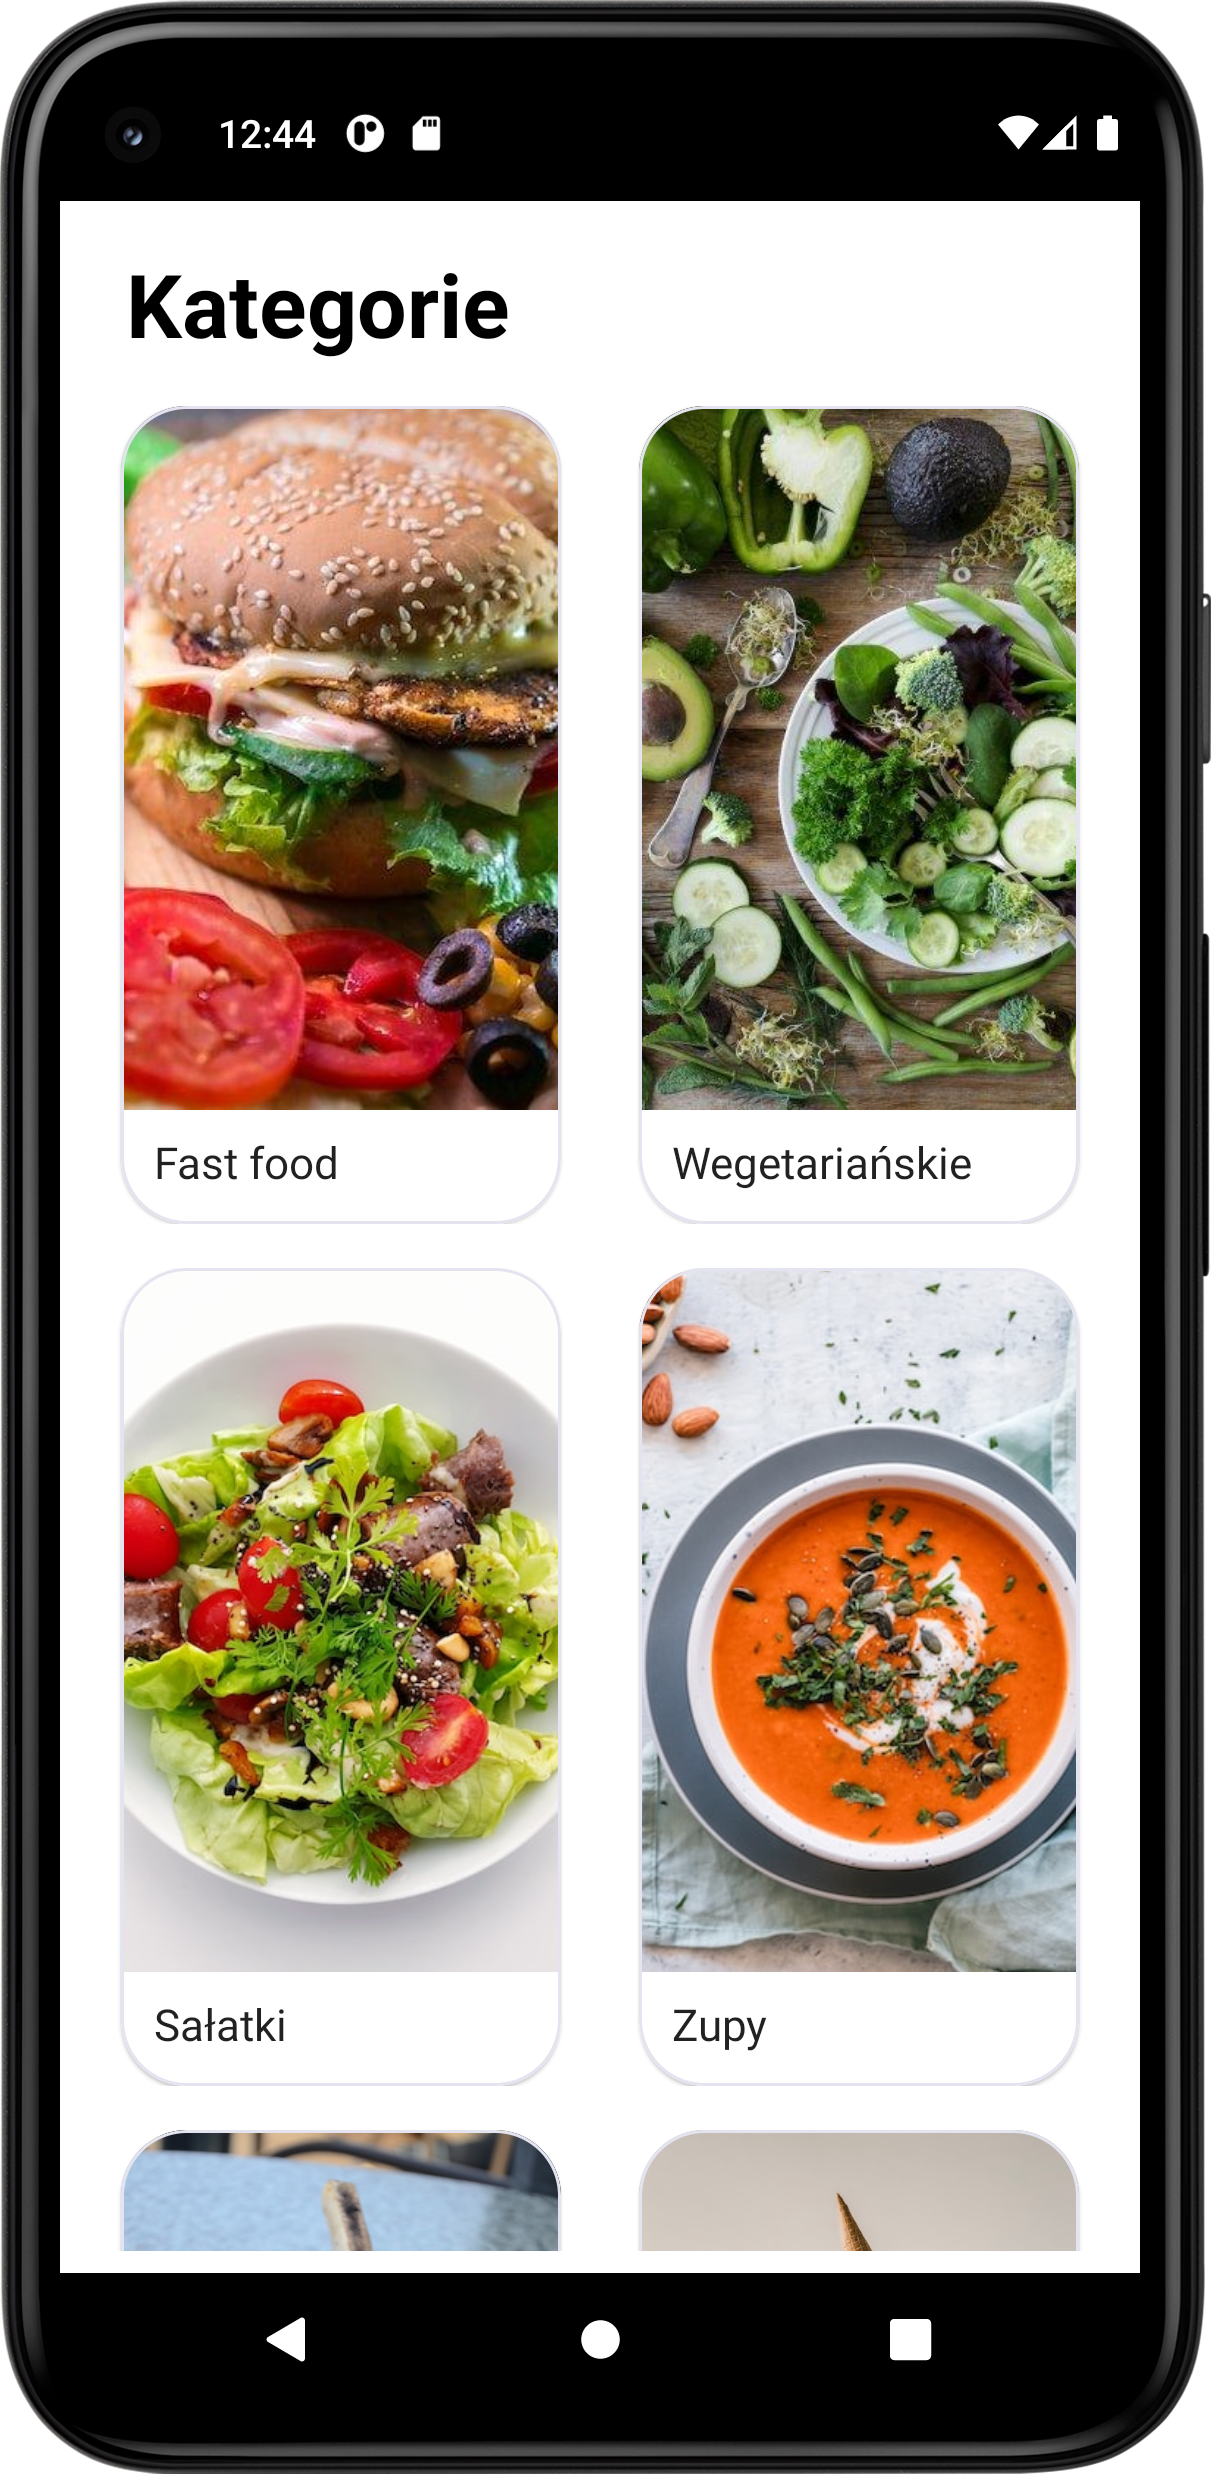
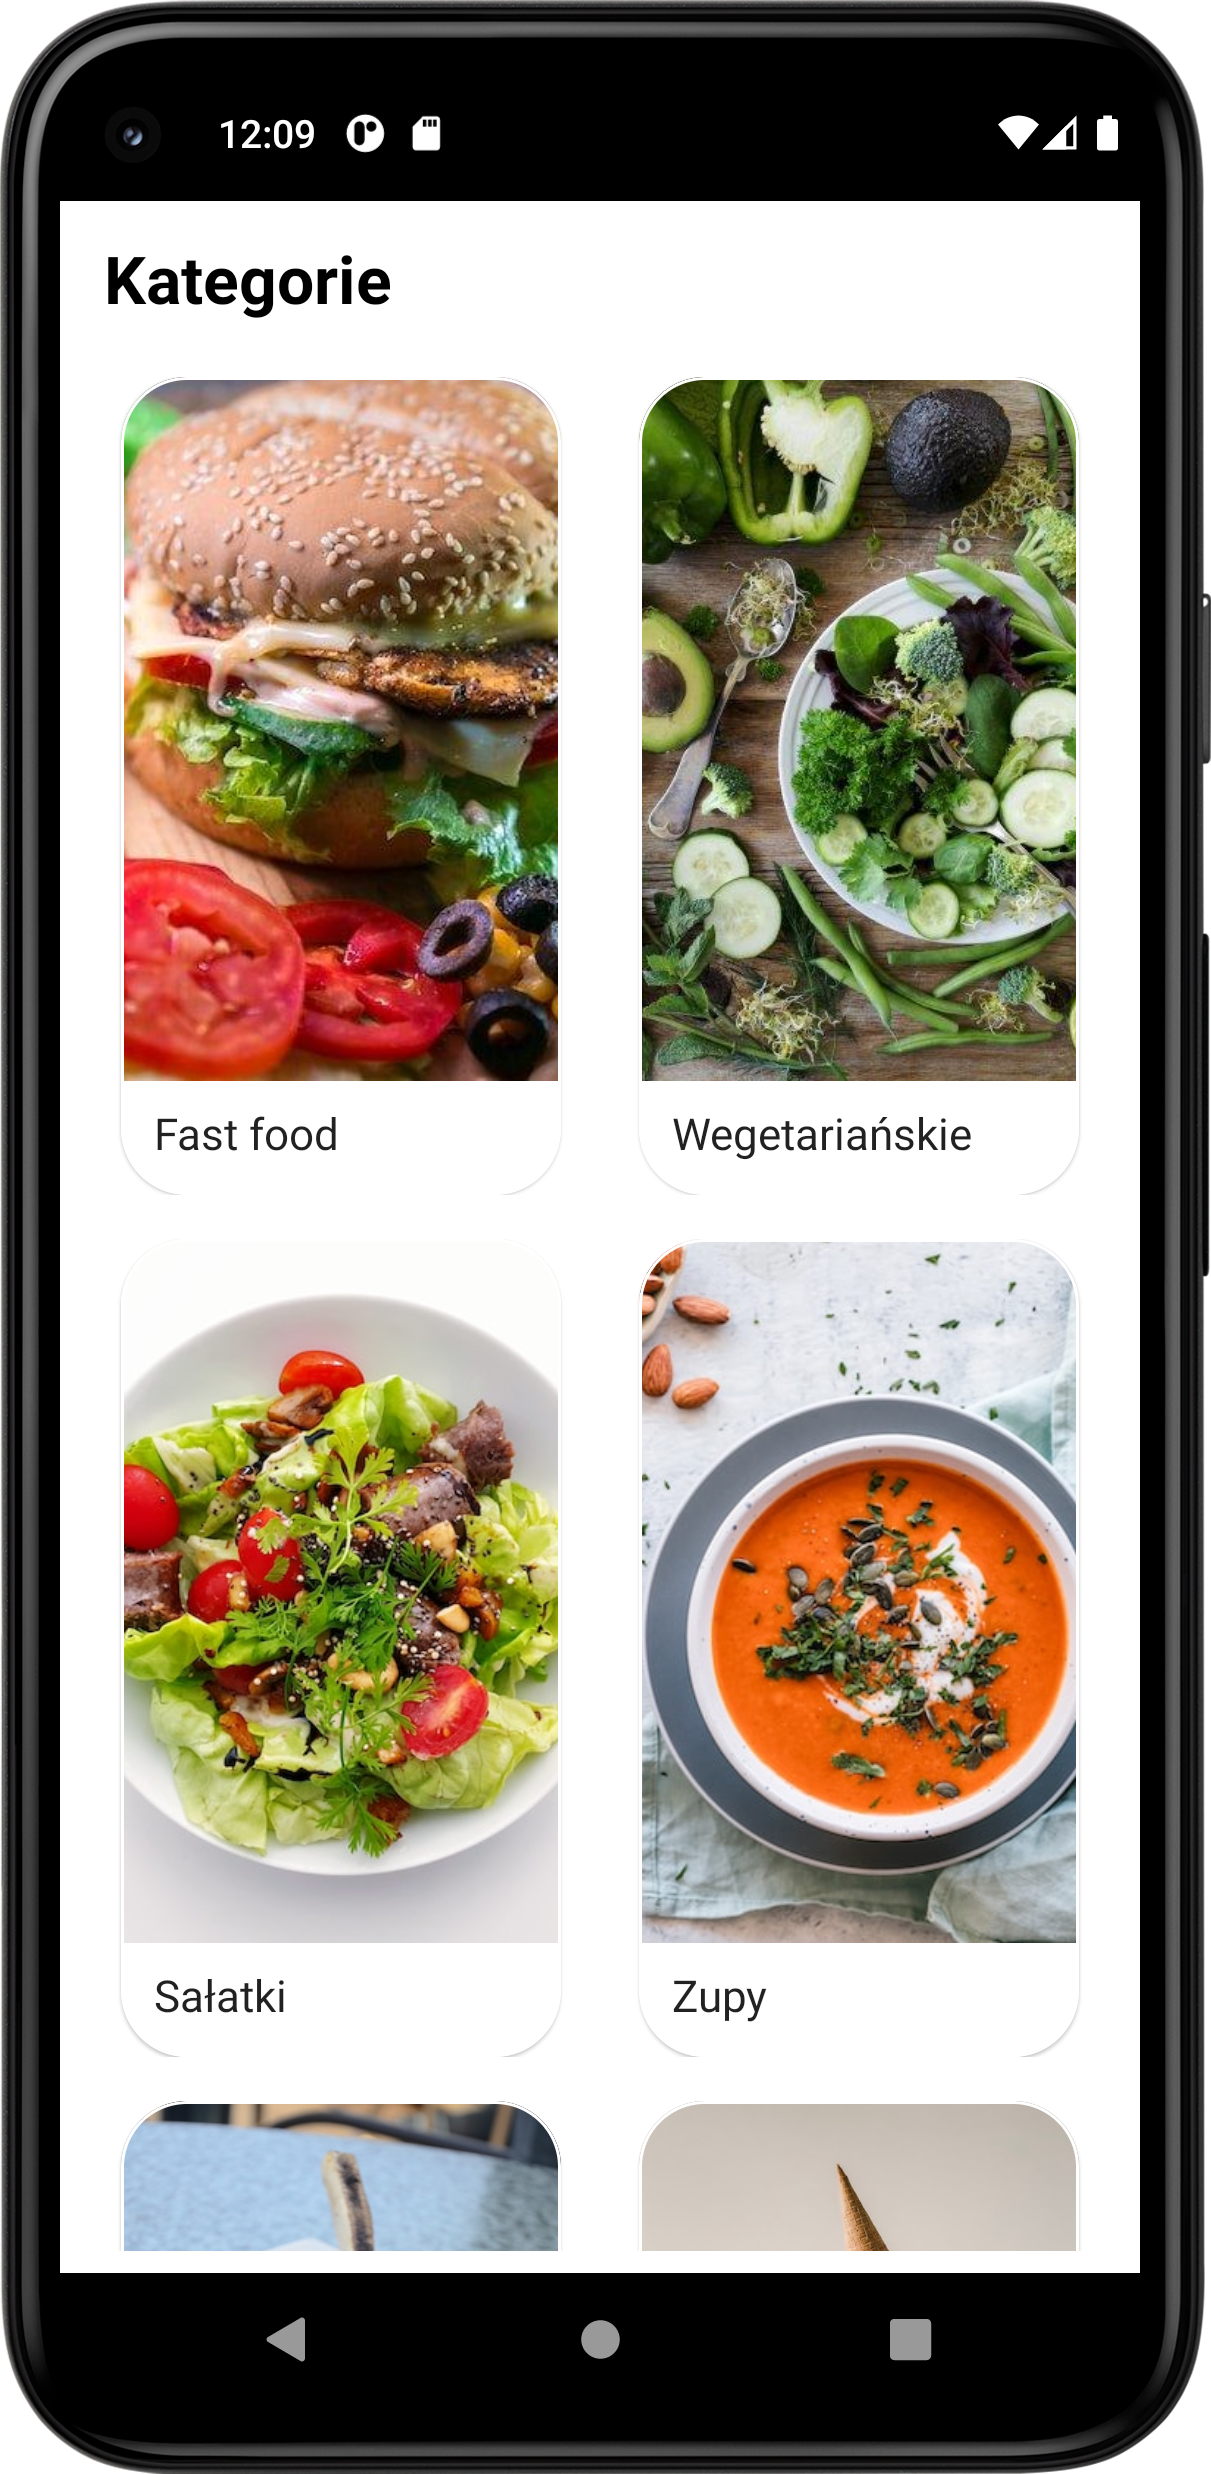
Add toolbar

diff --git a/mobile/app/src/main/java/com/example/cookbook/RecipeListFragment.kt b/mobile/app/src/main/java/com/example/cookbook/RecipeListFragment.kt
@@ -8,6 +8,7 @@ import android.view.Gravity
 import android.view.LayoutInflater
 import android.view.View
 import android.view.ViewGroup
+import android.widget.ImageView
 import androidx.fragment.app.Fragment
 import androidx.recyclerview.widget.RecyclerView
 import com.example.cookbook.databinding.RecipeListBinding
@@ -30,6 +31,8 @@ class RecipeListFragment : Fragment() {
         if (arguments?.getSerializable("category") != null) {
             category = arguments?.getSerializable("category") as String
         }
+
+
     }
     override fun onCreateView(
         inflater: LayoutInflater, container: ViewGroup?,
@@ -45,6 +48,10 @@ class RecipeListFragment : Fragment() {
         val recyclerView: RecyclerView = binding.itemList
         val itemDetailFragmentContainer: View? = view.findViewById(R.id.item_detail_nav_container)
 
+        val backButton: ImageView = view.findViewById(R.id.back_button)
+        backButton.setOnClickListener {
+            requireActivity().onBackPressed()
+        }
         val fab: FloatingActionButton = view.findViewById(R.id.fab)
 
         fab.setOnClickListener {
@@ -56,6 +63,7 @@ class RecipeListFragment : Fragment() {
 
         setupRecyclerView(recyclerView, itemDetailFragmentContainer)
     }
+
     private fun Context.toast(message: CharSequence) =
         Toast.makeText(this, message, Toast.LENGTH_SHORT).show()
 

diff --git a/README.md b/README.md
@@ -51,13 +51,13 @@ Mobile development uni course assignment.
 
 - [x] Na ekranie szczegółów ma się pojawić przycisk FAB (floating action button), który będzie odpowiedzialny za przesłanie listy składników do innej aplikacji (w uproszczonej wersji działanie przycisku może prowadzić jedynie do wyświetlenia odpowiedniego komunikatu).
 
-- [ ] W aplikacji należy zastosować motywy.
+- [x] W aplikacji należy zastosować motywy.
 
 - [x] W aplikacji należy korzystać z fragmentów.
 
 - [ ] Aplikacja ma działać poprawnie przy zmianie orientacji urządzenia.
 
-- [ ] Każda aktywność ma mieć pasek aplikacji w postaci paska narzędzi.
+- [x] Każda aktywność ma mieć pasek aplikacji w postaci paska narzędzi.
 
 - [ ] Ekran szczegółów ma być przewijany w pionie razem z paskiem aplikacji.
 
